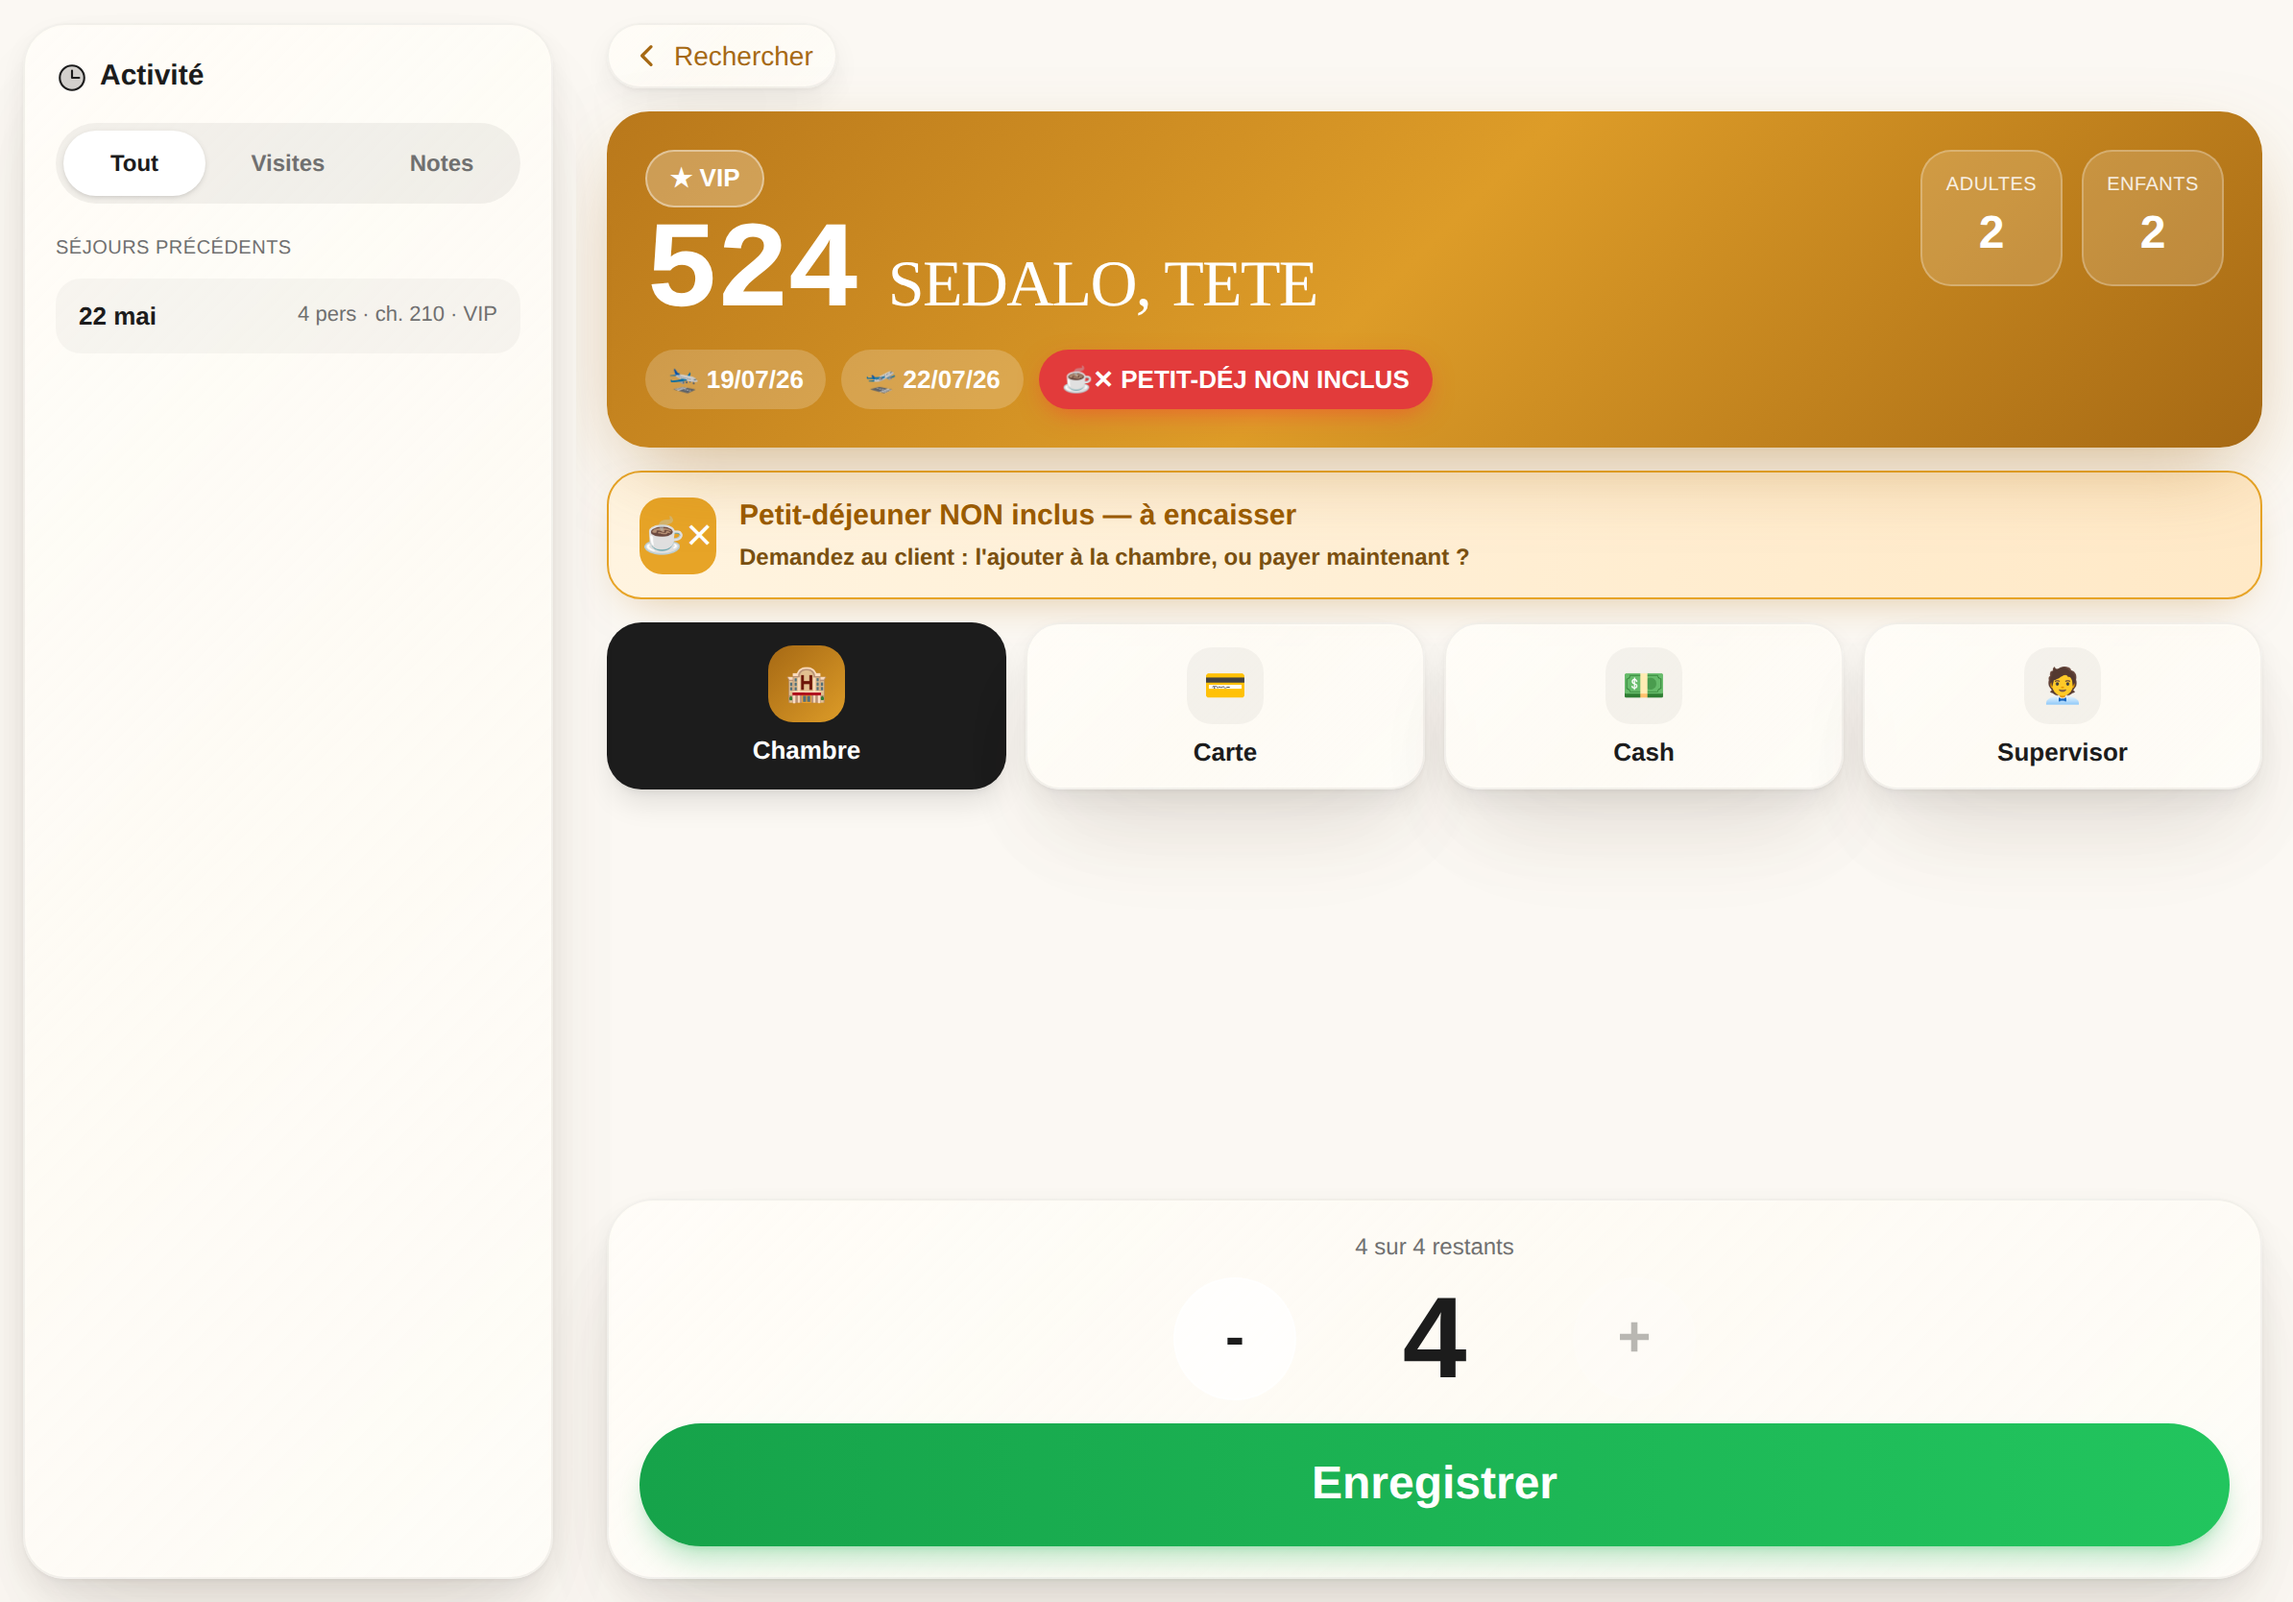
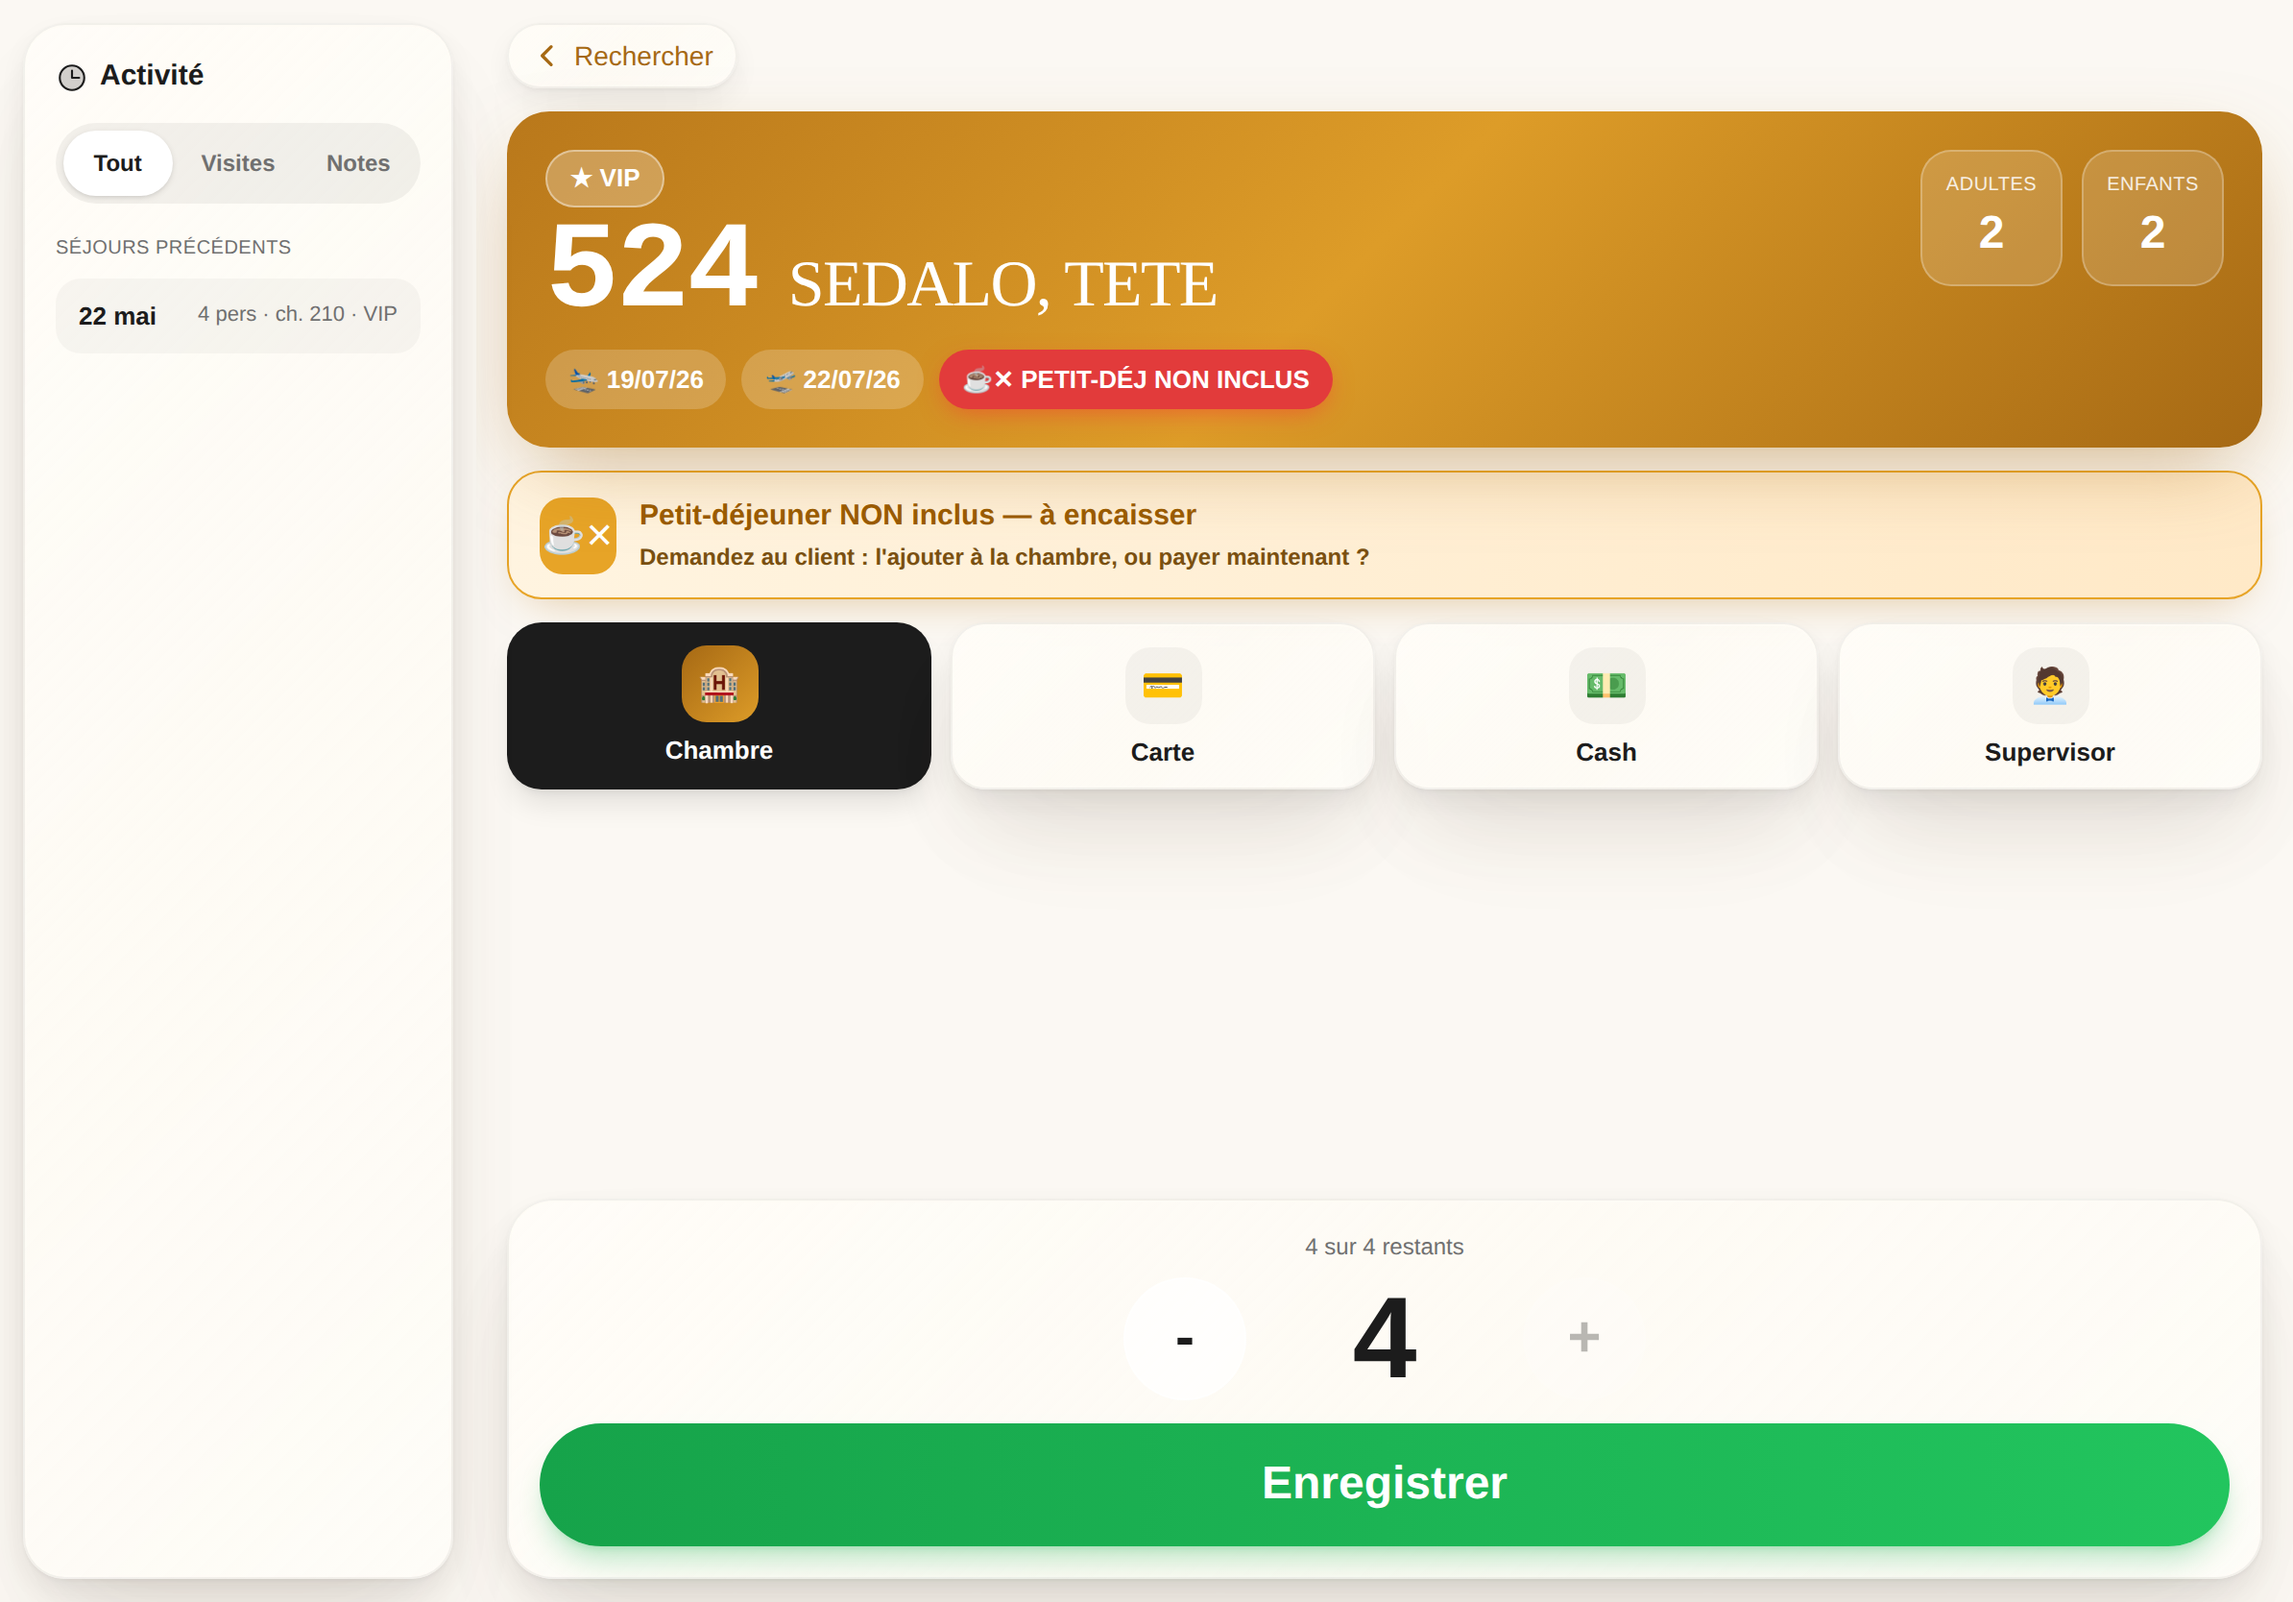
Auto-collapse the activity sidebar when there's nothing to show
On a first-visit guest the sidebar had no history to display, so on a
tablet it was a ~300px empty column stealing width from the card. Narrow
it to 248px and, when there's no activity, collapse it to the same
drawer used on phone so the room card spans the full width. It stays
docked for returning guests who actually have past stays to show.

Claude-Session: https://claude.ai/code/session_01PvjN1yrwGssKpuvjG4vcfR

diff --git a/src/app/checkin/[roomNumber]/page.tsx b/src/app/checkin/[roomNumber]/page.tsx
@@ -179,6 +179,9 @@ export default function CheckInPage({
   const isVip = !!client.isVip;
   const needsPay = needsPaymentChoice(client);
   const isFirstVisit = pastStays.length === 0; // R2/R5: a new guest has no past stays
+  // Dock the sidebar on tablet ONLY when there's activity worth showing; an
+  // empty first-visit column just wastes horizontal space, so collapse it.
+  const dockSidebar = !isFirstVisit;
 
   const handleCheckIn = () => {
     if (count <= 0 || allDone || checkInSuccess) return;
@@ -249,12 +252,14 @@ export default function CheckInPage({
         </div>
       )}
 
-      {/* ===== ACTIVITY SIDEBAR (left) — static on tablet, drawer on phone ===== */}
+      {/* ===== ACTIVITY SIDEBAR (left) — docked on tablet only when there's
+           history to show; a first-visit guest has nothing to display, so it
+           auto-collapses to a drawer and the card gets the full width. ===== */}
       {sidebarOpen && (
-        <div className="fixed inset-0 z-30 bg-black/30 backdrop-blur-sm lg:hidden" onClick={() => setSidebarOpen(false)} />
+        <div className={`fixed inset-0 z-30 bg-black/30 backdrop-blur-sm ${dockSidebar ? "lg:hidden" : ""}`} onClick={() => setSidebarOpen(false)} />
       )}
       <aside
-        className={`fixed lg:static inset-y-0 left-0 z-40 w-[300px] max-w-[85vw] shrink-0 p-3 transition-transform lg:translate-x-0 ${sidebarOpen ? "translate-x-0" : "-translate-x-full"}`}
+        className={`fixed inset-y-0 left-0 z-40 w-[248px] max-w-[82vw] shrink-0 p-3 transition-transform ${dockSidebar ? "lg:static lg:translate-x-0" : ""} ${sidebarOpen ? "translate-x-0" : "-translate-x-full"}`}
       >
         <div className="h-full glass-liquid rounded-[22px] p-4 flex flex-col gap-3 overflow-hidden">
           <div className="flex items-center justify-between">
@@ -314,7 +319,7 @@ export default function CheckInPage({
               <svg className="w-4 h-4 text-brand" fill="none" stroke="currentColor" viewBox="0 0 24 24"><path strokeLinecap="round" strokeLinejoin="round" strokeWidth={2.5} d="M15 19l-7-7 7-7" /></svg>
               <span className="text-sm font-medium text-brand">{t("checkin.search")}</span>
             </button>
-            <button onClick={() => setSidebarOpen(true)} className="lg:hidden ml-auto flex items-center gap-1.5 px-3 py-1.5 glass-liquid rounded-full active:scale-[0.96]">
+            <button onClick={() => setSidebarOpen(true)} className={`${dockSidebar ? "lg:hidden" : ""} ml-auto flex items-center gap-1.5 px-3 py-1.5 glass-liquid rounded-full active:scale-[0.96]`}>
               <Clock weight="duotone" size={16} className="text-brand" />
               {!isFirstVisit && pastStays.length > 0 && <span className="text-[11px] font-black text-brand tabular-nums">{pastStays.length}</span>}
             </button>
